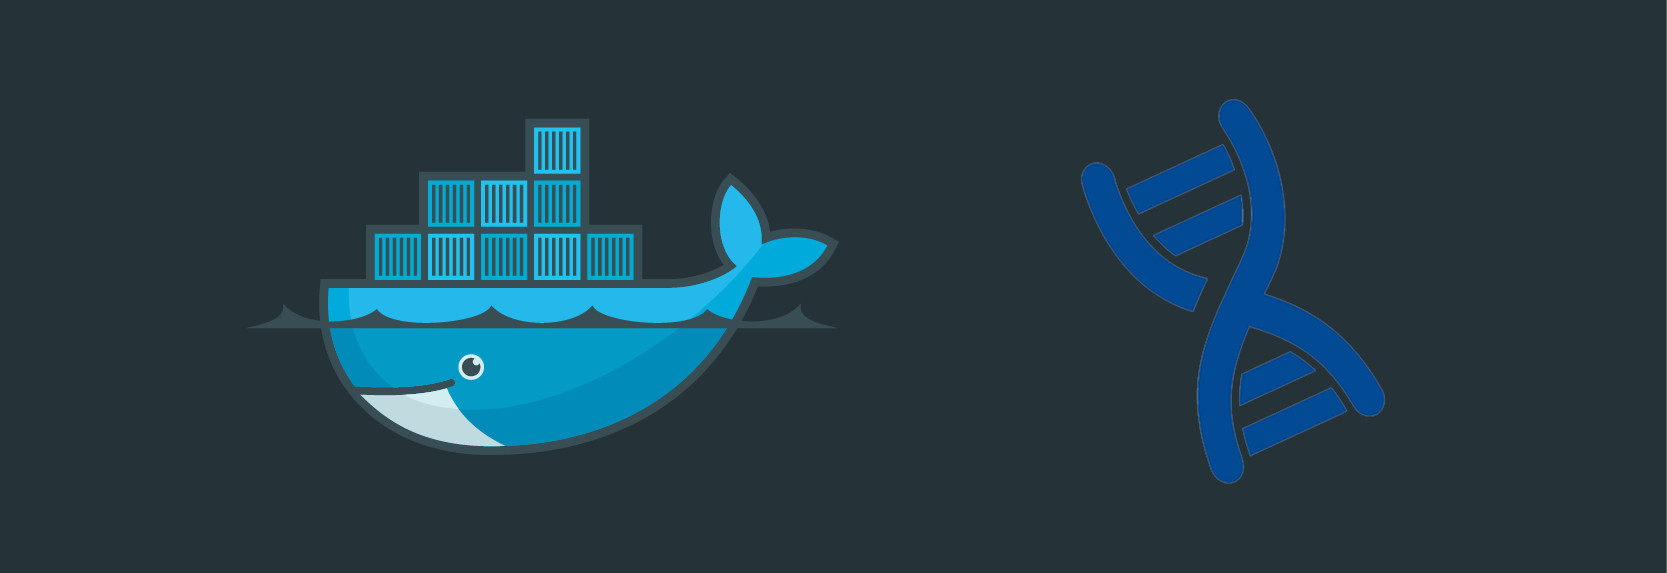
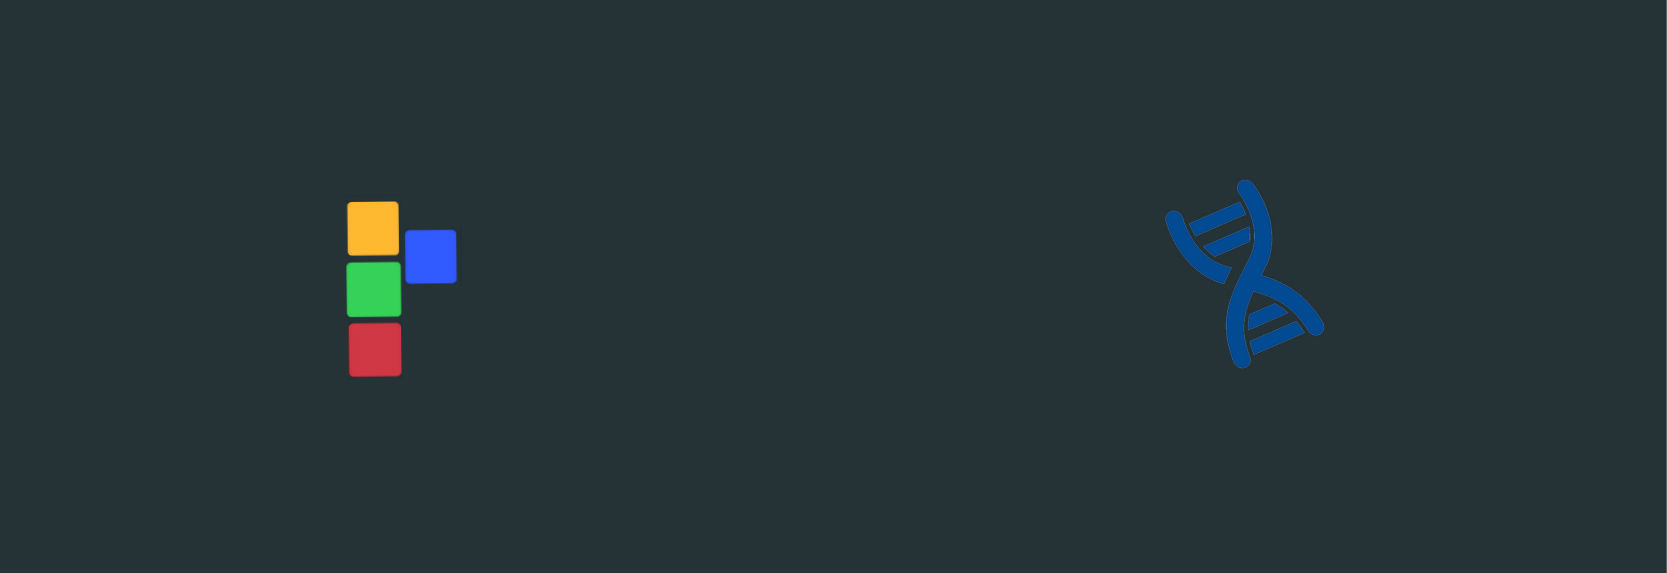
BioContainers page

Changed region(s): [[0.156, 0.2077, 0.4991, 0.801], [0.6239, 0.178, 0.8422, 0.8604]]

diff --git a/index.html b/index.html
@@ -4,23 +4,23 @@
         <meta charset="utf-8">
 <meta http-equiv="X-UA-Compatible" content="IE=edge">
 <meta name="viewport" content="width=device-width, initial-scale=1">
-<meta name="author" content="BioDocker">
-<meta name="description" content="BioDocker: An open-source and community-driven framework for software standardization">
+<meta name="author" content="BioContainers">
+<meta name="description" content="BioContainers: An open-source and community-driven framework for software standardization">
 <meta name="generator" content="Hugo 0.15" />
-<title>BioDocker</title>
+<title>BioContainers</title>
 <!-- Favicon -->
-<link rel="shortcut icon" href="http://biodocker.org/favicon.ico">
+<link rel="shortcut icon" href="http://biocontainers.pro/favicon.ico">
 <!-- Bootstrap Core CSS -->
-<link rel="stylesheet" href="http://biodocker.org/css/bootstrap.min.css" type="text/css">
+<link rel="stylesheet" href="http://biocontainers.pro/css/bootstrap.min.css" type="text/css">
 <!-- Custom Fonts -->
 <link href='https://fonts.googleapis.com/css?family=Open+Sans:300italic,400italic,600italic,700italic,800italic,400,300,600,700,800' rel='stylesheet' type='text/css'>
 <link href='https://fonts.googleapis.com/css?family=Merriweather:400,300,300italic,400italic,700,700italic,900,900italic' rel='stylesheet' type='text/css'>
-<link rel="stylesheet" href="http://biodocker.org/font-awesome/css/font-awesome.min.css" type="text/css">
+<link rel="stylesheet" href="http://biocontainers.pro/font-awesome/css/font-awesome.min.css" type="text/css">
 <!-- Plugin CSS -->
-<link rel="stylesheet" href="http://biodocker.org/css/animate.min.css" type="text/css">
+<link rel="stylesheet" href="http://biocontainers.pro/css/animate.min.css" type="text/css">
 <!-- Custom CSS -->
-<link rel="stylesheet" href="http://biodocker.org/css/creative.css" type="text/css">
-<link rel="stylesheet" href="http://biodocker.org/css/modals.css" type="text/css">
+<link rel="stylesheet" href="http://biocontainers.pro/css/creative.css" type="text/css">
+<link rel="stylesheet" href="http://biocontainers.pro/css/modals.css" type="text/css">
 <!-- HTML5 Shim and Respond.js IE8 support of HTML5 elements and media queries -->
 <!-- WARNING: Respond.js doesn't work if you view the page via file:// -->
 <!--[if lt IE 9]>
@@ -42,7 +42,7 @@
                 <span class="icon-bar"></span>
                 <span class="icon-bar"></span>
             </button>
-            <a class="navbar-brand page-scroll" href="#page-top">BioDocker Project</a>
+            <a class="navbar-brand page-scroll" href="#page-top"><img src="img/biocontainers-logo.png" style="width: 25px; height: 25px"/>BioContainers</a>
         </div>
         <!-- Collect the nav links, forms, and other content for toggling -->
         <div class="collapse navbar-collapse" id="bs-example-navbar-collapse-1">
@@ -73,7 +73,7 @@
         <div class="header-content-inner">
             <h1>Bioinformatics more Accessible &amp; Reproducible</h1>
             <hr>
-            <p><a href="http://biodocker.org">BioDocker</a> is an open source and community-driven framework which provides system-agnostic executable environments for bioinformatics software. BioDocker is based on the popular <a href="http://www.docker.com">Docker</a> framework that allows software to be installed and executed under an isolated and controllable environment.</p>
+            <p><a href="http://BioConteiners.pro">BioContainers</a> is an open source and community-driven framework which provides system-agnostic executable environments for bioinformatics software. BioContainers framework allows software to be installed and executed under an isolated and controllable environment.</p>
             <div class="buttonbox">
                 <a href="#documentation" class="btn btn-primary btn-lg">Docs
                 </a>
@@ -93,7 +93,7 @@
             <div class="col-lg-8 col-lg-offset-2 text-center">
                 <h2 class="section-heading">We&#39;ve got what you need!</h2>
                 <hr class="light">
-                <p class="text-faded"><a href="https://hub.docker.com/u/biodckr/">BioDocker Registry</a> provides a list of all containers ready to be use!!</p>
+                <p class="text-faded"><a href="https://hub.docker.com/u/biodckr/">BioContainers Docker Registry</a> provides a list of all containers ready to be use!!</p>
                 <a href="https://hub.docker.com/u/biodckr/" class="btn btn-default btn-xl">Check The Registry</a>
             </div>
         </div>
@@ -105,7 +105,7 @@
     <div class="container">
         <div class="row">
             <div class="col-lg-12 text-center">
-                <h2 class="section-heading">BioDocker on GitHub</h2>
+                <h2 class="section-heading">BioContainers on GitHub</h2>
                 <hr class="primary">
             </div>
         </div>
@@ -115,23 +115,23 @@
             
             <div class="col-lg-3 col-md-6 text-center">
                 <div class="service-box">
-                    <a href="https://github.com/BioDocker/containers"><i class="fa fa-4x fa-cloud-download wow bounceIn text-primary"></i></a>
+                    <a href="https://github.com/BioContainers/containers"><i class="fa fa-4x fa-cloud-download wow bounceIn text-primary"></i></a>
                     <h3>Containers</h3>
-                    <p class="text-muted">Find out the BioDocker containers</p>
+                    <p class="text-muted">Find out the BioContainers containers</p>
                 </div>
             </div>
             
             <div class="col-lg-3 col-md-6 text-center">
                 <div class="service-box">
-                    <a href="https://github.com/BioDocker/containers/issues"><i class="fa fa-4x fa-question-circle wow bounceIn text-primary"></i></a>
+                    <a href="https://github.com/BioContainers/sandbox/issues"><i class="fa fa-4x fa-question-circle wow bounceIn text-primary"></i></a>
                     <h3>Ask for a container</h3>
-                    <p class="text-muted">Request a container to the BioDocker community</p>
+                    <p class="text-muted">Request a container to the BioContainers community</p>
                 </div>
             </div>
             
             <div class="col-lg-3 col-md-6 text-center">
                 <div class="service-box">
-                    <a href="https://github.com/BioDocker/sandbox"><i class="fa fa-4x fa-plus-square wow bounceIn text-primary"></i></a>
+                    <a href="https://github.com/BioContainers/sandbox"><i class="fa fa-4x fa-plus-square wow bounceIn text-primary"></i></a>
                     <h3>Sandbox</h3>
                     <p class="text-muted">Workplace for new or broken containers</p>
                 </div>
@@ -139,9 +139,9 @@
             
             <div class="col-lg-3 col-md-6 text-center">
                 <div class="service-box">
-                    <a href="https://github.com/BioDocker/biodocker"><i class="fa fa-4x fa-book wow bounceIn text-primary"></i></a>
+                    <a href="https://github.com/BioContainers/specs"><i class="fa fa-4x fa-book wow bounceIn text-primary"></i></a>
                     <h3>Specifications</h3>
-                    <p class="text-muted">Read about BioDocker specification and guidelines</p>
+                    <p class="text-muted">Read about BioContainers specification and guidelines</p>
                 </div>
             </div>
             
@@ -162,7 +162,7 @@
 <aside class="bg-dark">
     <div class="container text-center">
         <div class="call-to-action">
-            <h2>Get Started with BioDocker</h2>
+            <h2>Get Started with BioContainers</h2>
             <a href="docs" class="btn btn-default btn-xl wow tada">Documentation</a>
         </div>
     </div>
@@ -180,11 +180,11 @@
             </div>
             <div class="col-lg-4 col-lg-offset-2 text-center">
                 <i class="fa fa-keyboard-o fa-3x wow bounceIn"></i>
-                <a href="https://github.com/BioDocker/biodocker/blob/master/CONTRIBUTING.md" ><p>Contribute with us</p></a>
+                <a href="https://github.com/BioContainers/specs/blob/master/CONTRIBUTING.md" ><p>Contribute with us</p></a>
             </div>
             <div class="col-lg-4 text-center">
                 <i class="fa fa-envelope-o fa-3x wow bounceIn" data-wow-delay=".1s"></i>
-                <p><a href="mailto:biodockers@gmail.com">biodockers@gmail.com</a></p>
+                <p><a href="mailto:biodocker@gmail.com">biodocker@gmail.com</a></p>
             </div>
         </div>
     </div>
@@ -195,15 +195,15 @@
 
 
         <!-- jQuery -->
-<script src="http://biodocker.org/js/jquery.js"></script>
+<script src="http://biocontainers.pro/js/jquery.js"></script>
 <!-- Bootstrap Core JavaScript -->
-<script src="http://biodocker.org/js/bootstrap.min.js"></script>
+<script src="http://biocontainers.pro/js/bootstrap.min.js"></script>
 <!-- Plugin JavaScript -->
-<script src="http://biodocker.org/js/jquery.easing.min.js"></script>
-<script src="http://biodocker.org/js/jquery.fittext.js"></script>
-<script src="http://biodocker.org/js/wow.min.js"></script>
+<script src="http://biocontainers.pro/js/jquery.easing.min.js"></script>
+<script src="http://biocontainers.pro/js/jquery.fittext.js"></script>
+<script src="http://biocontainers.pro/js/wow.min.js"></script>
 <!-- Custom Theme JavaScript -->
-<script src="http://biodocker.org/js/creative.js"></script>
+<script src="http://biocontainers.pro/js/creative.js"></script>
 
         <section>
     <script>

diff --git a/css/creative.css b/css/creative.css
@@ -102,6 +102,11 @@ aside {
     color: #f05f40;
 }
 
+.navbar-brand img{
+    display: inline;
+    margin-right: 5px;
+}
+
 .navbar-default .navbar-header .navbar-brand:hover,
 .navbar-default .navbar-header .navbar-brand:focus {
     color: #eb3812;
